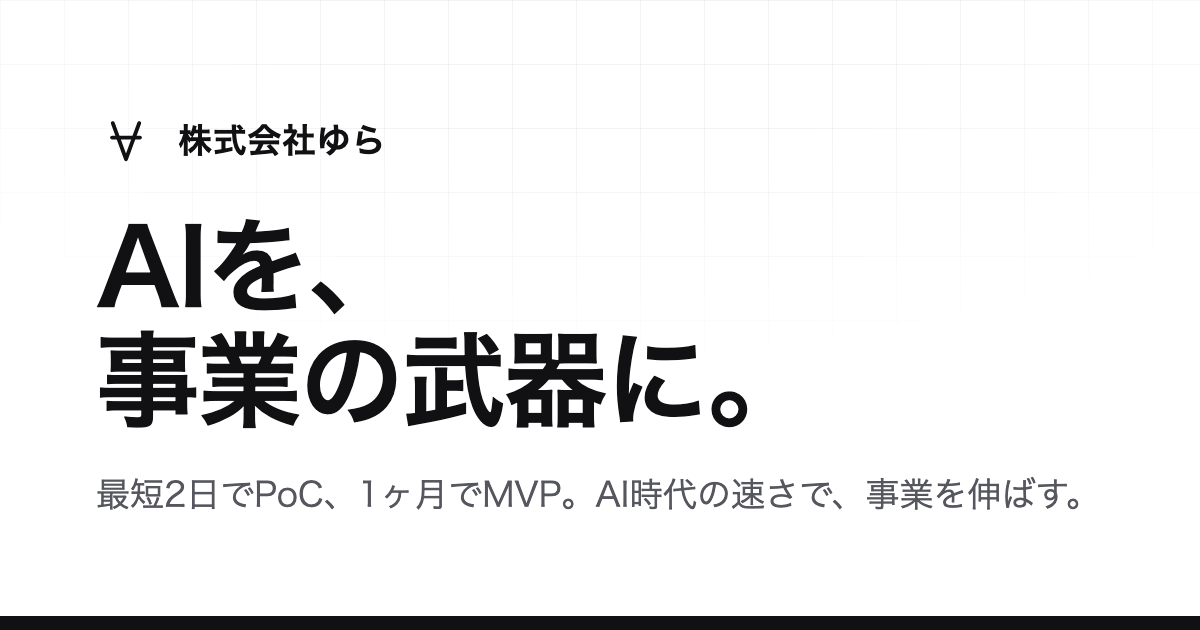
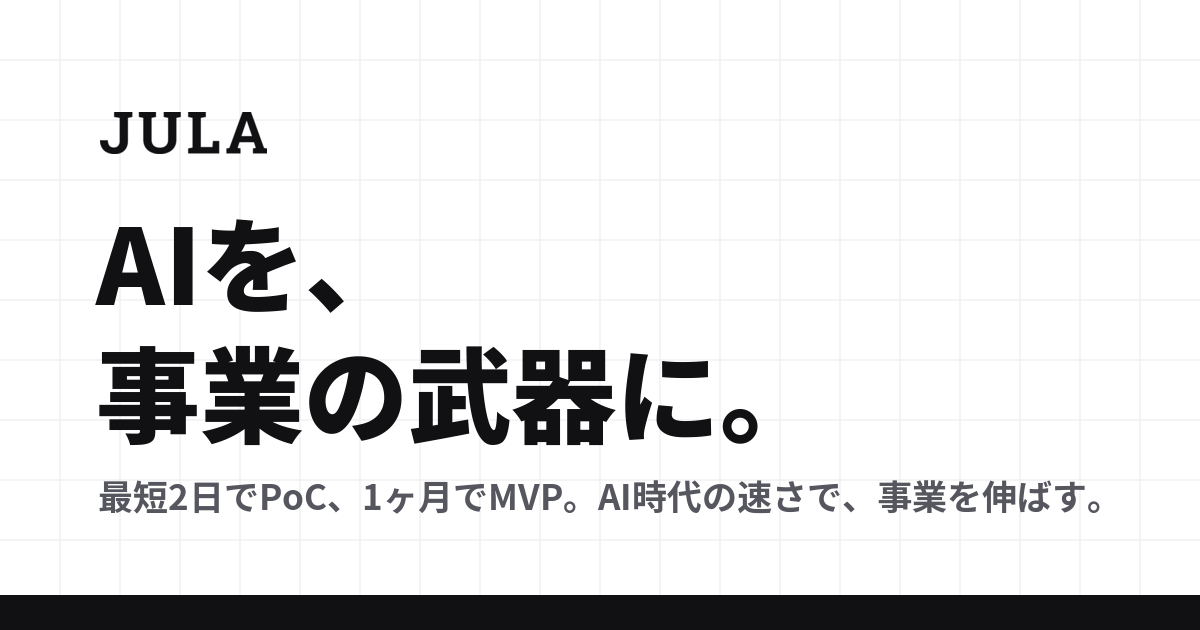
refactor: ロゴをSONY風の文字だけのワードマーク「JULA」に刷新
- ∀マーク+社名テキストを廃止し、Roboto Slab Boldの「JULA」ワードマークに統一
- ヘッダー・フッター・モバイルナビをLogoWordmarkに置き換え
- favicon/アプリアイコンは「J」モノグラム、faviconはマルチサイズICO化
- OG/Twitter画像・logo.png/logo.svgも新ワードマークで再生成

Claude-Session: https://claude.ai/code/session_01AxY9bSB9MiwviqFhdHtexC

diff --git a/components/mobile-nav.tsx b/components/mobile-nav.tsx
@@ -5,7 +5,7 @@ import Link from "next/link";
 import { Dialog } from "@base-ui-components/react/dialog";
 import { Menu, X, ArrowUpRight } from "lucide-react";
 import { nav, site } from "@/lib/site";
-import { LogoMark } from "./logo";
+import { LogoWordmark } from "./logo";
 
 export function MobileNav() {
   const [open, setOpen] = React.useState(false);
@@ -22,9 +22,8 @@ export function MobileNav() {
         <Dialog.Backdrop className="fixed inset-0 z-50 bg-foreground/20 backdrop-blur-sm transition-opacity duration-300 data-[ending-style]:opacity-0 data-[starting-style]:opacity-0" />
         <Dialog.Popup className="fixed inset-y-0 right-0 z-50 flex w-[82%] max-w-sm flex-col bg-background px-6 py-6 shadow-2xl transition-transform duration-300 data-[ending-style]:translate-x-full data-[starting-style]:translate-x-full">
           <div className="flex items-center justify-between">
-            <span className="flex items-center gap-2.5">
-              <LogoMark className="h-7 w-7" />
-              <span className="text-lg font-bold tracking-tight">{site.name}</span>
+            <span className="flex items-center">
+              <LogoWordmark className="text-xl" />
             </span>
             <Dialog.Close
               className="inline-flex h-10 w-10 items-center justify-center rounded-full border border-border text-foreground transition-colors hover:bg-surface-2"

diff --git a/components/logo.tsx b/components/logo.tsx
@@ -1,28 +1,29 @@
+import { Roboto_Slab } from "next/font/google";
 import { cn } from "@/lib/utils";
 
+const logoFont = Roboto_Slab({
+  weight: "700",
+  subsets: ["latin"],
+  display: "swap",
+});
+
 /**
- * 株式会社ゆら ブランドマーク。
- * 上下を逆にした「A」（∀）の横棒を脚の外へはみ出させた、スピード感のあるモノマーク。
+ * 株式会社ゆら ワードマーク。
+ * SONY のような文字だけのロゴ。スラブセリフ体の「JULA」。
  * currentColor を継承するため text-foreground（チャコール）で描画される。
  */
-export function LogoMark({ className }: { className?: string }) {
+export function LogoWordmark({ className }: { className?: string }) {
   return (
-    <svg
-      viewBox="0 0 100 100"
-      className={cn("text-foreground", className)}
-      fill="none"
+    <span
       role="img"
       aria-label="株式会社ゆら"
+      className={cn(
+        logoFont.className,
+        "select-none leading-none tracking-[0.08em] text-foreground",
+        className
+      )}
     >
-      <g
-        stroke="currentColor"
-        strokeWidth="6.5"
-        strokeLinecap="round"
-        strokeLinejoin="round"
-      >
-        <path d="M28 22 L50 82 L72 22" />
-        <path d="M26.8 46 L73.2 46" />
-      </g>
-    </svg>
+      JULA
+    </span>
   );
 }

diff --git a/components/site-header.tsx b/components/site-header.tsx
@@ -4,10 +4,10 @@ import * as React from "react";
 import Link from "next/link";
 import { usePathname } from "next/navigation";
 import { cn } from "@/lib/utils";
-import { nav, site } from "@/lib/site";
+import { nav } from "@/lib/site";
 import { Button } from "./ui/button";
 import { MobileNav } from "./mobile-nav";
-import { LogoMark } from "./logo";
+import { LogoWordmark } from "./logo";
 
 export function SiteHeader() {
   const pathname = usePathname();
@@ -30,9 +30,8 @@ export function SiteHeader() {
       )}
     >
       <div className="container-page flex h-16 items-center justify-between md:h-20">
-        <Link href="/" className="group flex items-center gap-2.5">
-          <LogoMark className="h-8 w-8 transition-transform group-hover:-translate-y-0.5" />
-          <span className="text-lg font-bold tracking-tight">{site.name}</span>
+        <Link href="/" className="group flex items-center">
+          <LogoWordmark className="text-2xl transition-transform group-hover:-translate-y-0.5" />
         </Link>
 
         <nav className="hidden items-center gap-1 md:flex">

diff --git a/components/site-footer.tsx b/components/site-footer.tsx
@@ -1,7 +1,7 @@
 import Link from "next/link";
 import { Mail, MapPin, Phone } from "lucide-react";
 import { site, footerLinks } from "@/lib/site";
-import { LogoMark } from "./logo";
+import { LogoWordmark } from "./logo";
 import { AddressLines } from "./address-lines";
 
 export function SiteFooter() {
@@ -9,9 +9,8 @@ export function SiteFooter() {
     <footer className="relative border-t border-border bg-surface/60">
       <div className="container-page grid gap-12 py-16 md:grid-cols-[1.4fr_1fr]">
         <div>
-          <div className="flex items-center gap-2.5">
-            <LogoMark className="h-8 w-8" />
-            <span className="text-lg font-bold tracking-tight">{site.name}</span>
+          <div className="flex items-center">
+            <LogoWordmark className="text-2xl" />
           </div>
           <address className="mt-6 space-y-2 text-sm not-italic text-muted">
             <p className="flex items-start gap-2">
